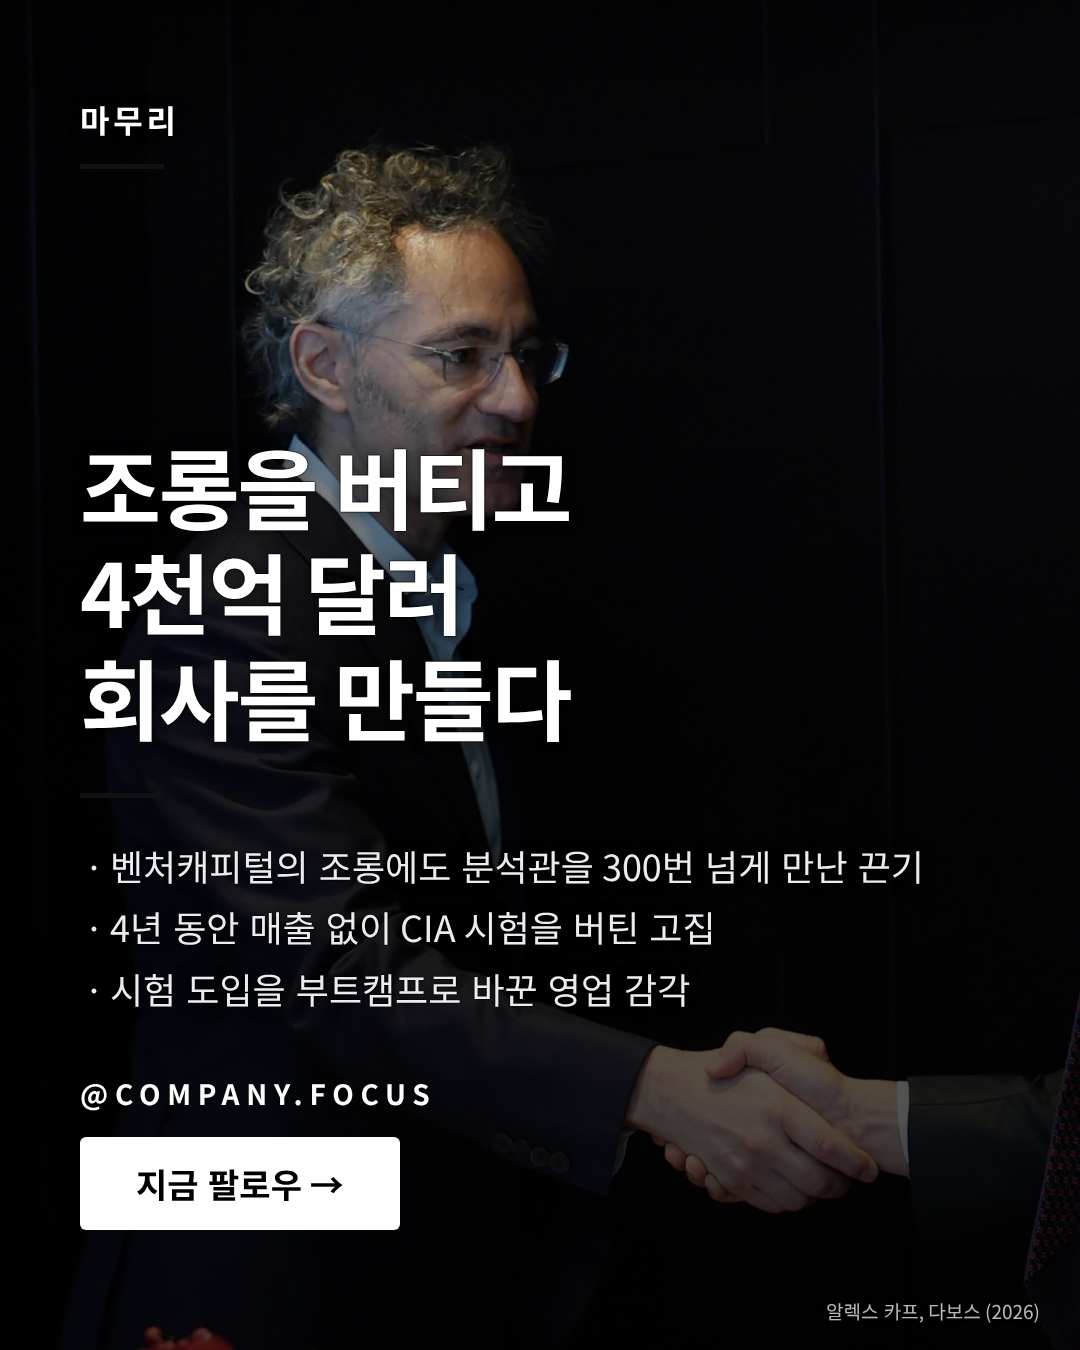
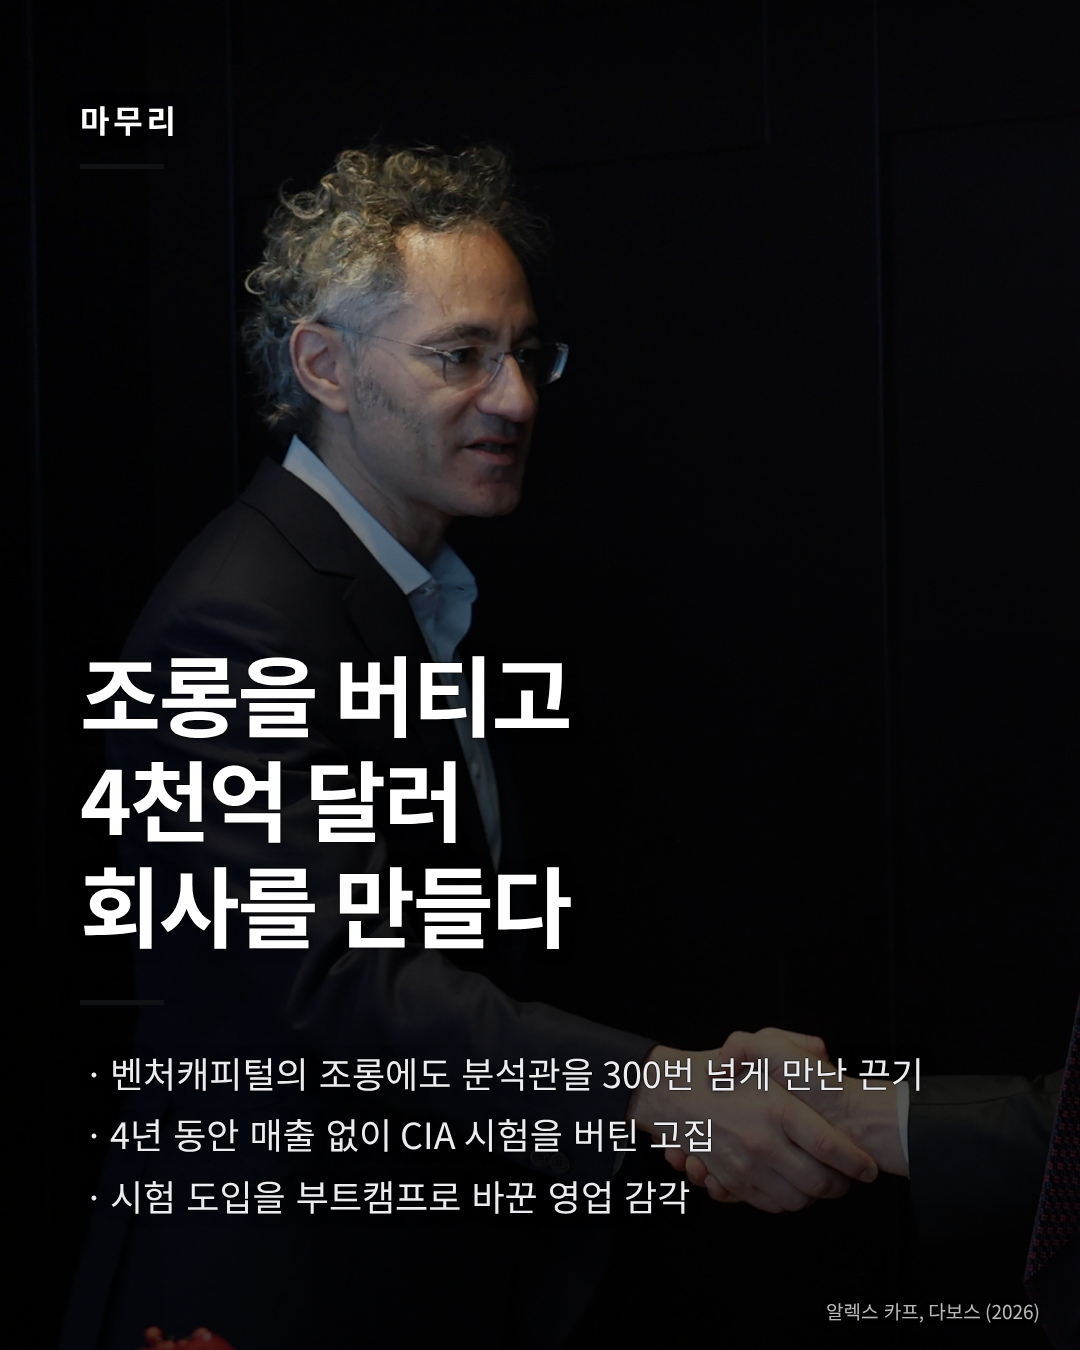
대기열 6편 홍보 장 붙여 재렌더, 규칙에 홍보 장·19장 상한 적음
Claude-Session: https://claude.ai/code/session_0174UmVshYz8dZeMQU8yLKQX

Changed region(s): [[0.0611, 0.3111, 0.8556, 0.7467], [0.0611, 0.7778, 0.8556, 0.9333]]

diff --git a/rules/1-wongo-common.md b/rules/1-wongo-common.md
@@ -23,7 +23,7 @@
 - 확장 과정(첫 상품 → 다른 상품·시장), 손님·매출이 들어오는 구조와 숫자 변화. (11/09 Amazon)
 - 사업적 실수와 결과 숫자, 이유는 본인이 밝힌 사정으로. (11/10 웨인 800달러)
 - 설립·출시 뒤 바로 다음 큰 사업으로 건너뛰지 않고 그 사이 성과를 장으로. 마지막 본문과 끝 장 사이 긴 공백엔 회사를 바꾼 큰 일을 찾되, 덜 중요한 일로 채우지 않음. (11/10 FedEx)
-- 핵심 일화("왜?"가 궁금해지는 것)는 압축하지 말고 장을 늘림. 단 ⚙ 한 편은 표지·마무리 포함 최대 20장(넘으면 render.py가 멈춤). 넘으면 덜 중요한 장을 합쳐 20장 이하로 줄임. (11/09 현대, 11/23 Anthropic 21장)
+- 핵심 일화("왜?"가 궁금해지는 것)는 압축하지 말고 장을 늘림. 단 ⚙ 한 편은 표지·마무리 포함 최대 19장(넘으면 render.py가 멈춤), 렌더러가 끝에 고정 홍보 장 1장을 붙여 게시는 최대 20장. 넘으면 덜 중요한 장을 합쳐 19장 이하로 줄임. (11/09 현대, 11/23 Anthropic 21장, 11/23 홍보 장)
 - 성장 장은 "아 그랬구나" 일화가 아니라 회사의 핵심 문제를 푼 사건. (11/08 Airbnb)
 - 화제 편: 그 이슈를 마무리 바로 앞 '위기' 장으로, 표지·설명란 첫 줄·마무리를 이슈와 잇기. (11/12 젠슨 황)
 - **장 이름(index)은 이 목록만** (render.py가 멈춤): 배경 · 계기 · 창업 · 자금 · 투자 · 상장 · 첫 성과 · 방향 전환 · 혁신 · 성장 · 확장 · 경쟁 · 갈등 · 위기 · 실수 · 정점 · 매각 · 떠날 때 · 그 뒤 · 마무리 (AI 계정은 떠날 때·그 뒤·매각 대신 '지금'). (11/23)

diff --git a/rules/2-design.md b/rules/2-design.md
@@ -21,6 +21,7 @@
 - 표지 로고 스티커: 표지 사진에 로고가 안 보일 때만. 중심 가로 820·세로 1137px, 정사각형 최대 260·가로형 360. 제목이 짧아 사용자가 위치를 정하면 `fixed: true`. (11/11)
 - 중간 장 스티커는 의미 있을 때만, top 190 이상. (11/09 LEGO·삼성)
 - 모든 장 사진(빈 장 없음, 그래프·캡처는 직접 만듦), 마무리 = 아직 안 쓴 가장 의미 있는 실제 사진, 로고는 표지 장 안: 원고 문서 단계 규칙은 [1-wongo-common.md](1-wongo-common.md) 6. 렌더도 같음(마무리 배경에 로고 금지). (11/23 사용자, Anthropic 편)
+- 기업집중탐구 모든 편 맨 끝 = 고정 홍보 장(render.py가 자동으로 붙임, 사진·문구는 assets/promo/: 위 6분할 머스크·잡스·게이츠·저커버그·베이조스·젠슨 황, "아이디어 하나가 / 대기업이 되기까지", 버튼 "팔로우하고 업데이트 받기"). 마무리 장에는 팔로우 버튼을 넣지 않음. 이미 다른 곳에 장 수가 고정 예약된 편만 JSON에 "no_promo": true. (11/23 사용자 "A Grid … 마지막 페이지로서 이제부터 고정", Pizza Hut만 BS 10장 예약이라 제외)
 
 ## 자동 제작 (00시 편성 스캔이 넘긴 편, 11/23 사용자 "제목 입력 = 최종 합격, 렌더 결과 안 봐도 됨")
 1. 공동 문서를 `read_doc` → `python3 publisher/doc2episode.py <결과 파일> "<탭 제목>" <stem>`으로 바뀔 것을 보고 `--apply`(문서가 원본: 사용자가 바꾼 사진·제목·본문을 JSON·photos로 가져옴). 장 수가 다르면 원고에 넘김.
